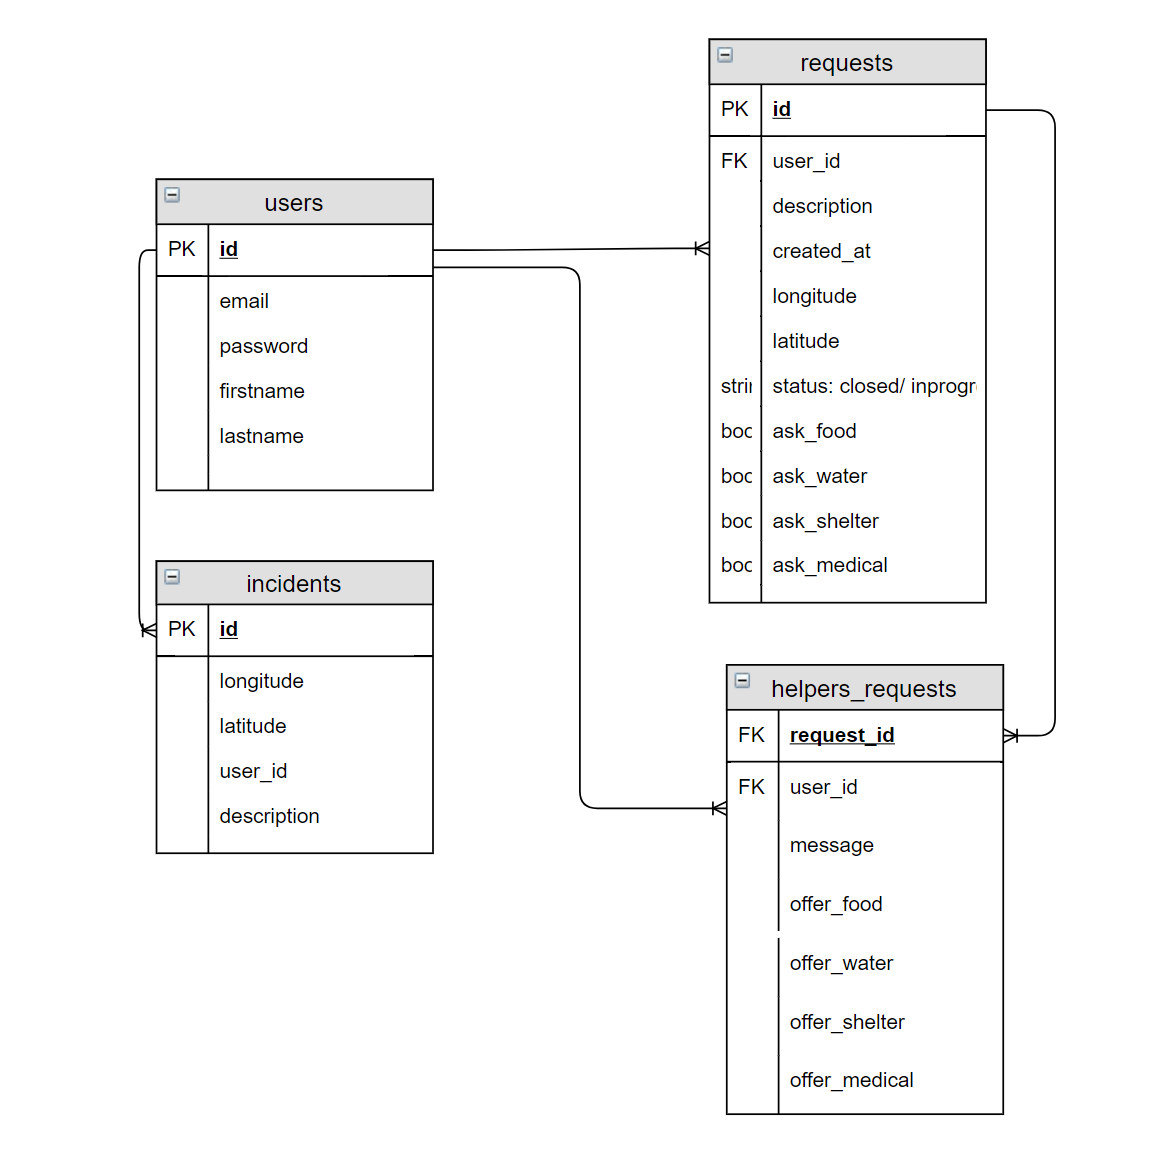
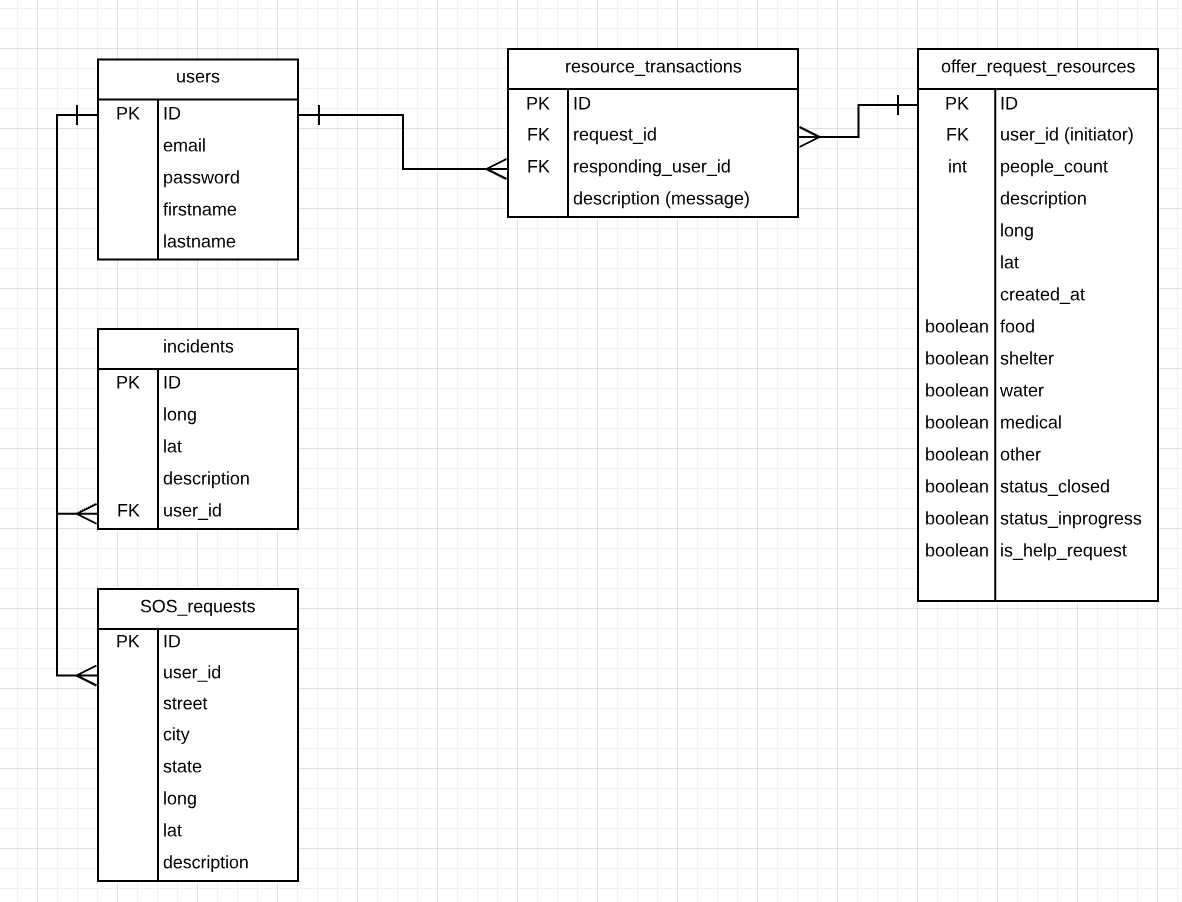
Fixed ERD, entities

diff --git a/src/db/seeds/03_resources.js b/src/db/seeds/03_resources.js
@@ -1,0 +1,81 @@
+const {
+  hashSync
+} = require('bcryptjs')
+
+const table = 'resources'
+
+exports.seed = knex => {
+  return knex(table).insert([{
+    id: 1,
+    people_count: 2,
+    message: "My wife and I would like some water and food",
+    lat: 37.733777,
+    long: -122.447576,
+    food: true,
+    water: true,
+    shelter: false,
+    medical: false,
+    other: false,
+    is_an_offer: false,
+    finished: false,
+    user_id: 1
+  }, {
+    id: 2,
+    people_count: 3,
+    message: "My family is looking for a place to stay. Our house is burned down.",
+    latitude: 33.731426,
+    longitude: -116.099620,
+    food: false,
+    water: false,
+    shelter: true,
+    medical: false,
+    other: false,
+    is_an_offer: false,
+    finished: false,
+    user_id: 2
+  }, {
+    id: 3,
+    people_count: 4,
+    message: "Hi there, I have some food, water and shelter. Let me know if you are intersted.",
+    latitude: 33.738679,
+    longitude: -117.209734,
+    food: true,
+    water: true,
+    shelter: true,
+    medical: false,
+    other: false,
+    is_an_offer: true,
+    finished: false,
+    user_id: 4
+  }, {
+    id: 4,
+    people_count: 5,
+    message: "I can give you some water and food.",
+    latitude: 37.740563,
+    longitude: -122.446198,
+    food: true,
+    water: true,
+    shelter: false,
+    medical: false,
+    other: false,
+    is_an_offer: true,
+    finished: false,
+    user_id: 5
+  }, {
+    id: 5,
+    people_count: 3,
+    message: "I have some first-aid kits that I can give to anyone",
+    latitude: 37.732423,
+    longitude: -122.452726,
+    food: false,
+    water: false,
+    shelter: false,
+    medical: true,
+    other: false,
+    is_an_offer: true,
+    finished: false,
+    user_id: 3
+  }]).then(() => {
+    return knex.raw(`SELECT setval('${table}_id_seq', (SELECT MAX(id) FROM ${table}));`)
+  });;
+};

diff --git a/src/db/migrations/20180904211257_resources.js b/src/db/migrations/20180904211257_resources.js
@@ -1,0 +1,25 @@
+const table = 'resources'
+
+exports.up = knex => {
+  return knex.schema.createTable(table, table => {
+    table.increments()
+    table.integer('people_count').notNullable().defaultsTo(0)
+    table.string('message').notNullable().defaultsTo('')
+    table.float('lat')
+    table.float('long')
+    table.boolean('food').notNullable().defaultsTo(false)
+    table.boolean('water').notNullable().defaultsTo(false)
+    table.boolean('shelter').notNullable().defaultsTo(false)
+    table.boolean('medical').notNullable().defaultsTo(false)
+    table.boolean('other').notNullable().defaultsTo(false)
+    table.boolean('is_an_offer').notNullable().defaultsTo(false)
+    table.boolean('finished').notNullable().defaultsTo(false)
+    table.integer('user_id').notNullable().defaultsTo(0)
+    table.foreign('user_id').references('users.id').onDelete('CASCADE')
+    table.timestamps(true, true)
+  })
+}
+
+exports.down = knex => {
+  return knex.schema.dropTable(table)
+};

diff --git a/src/db/migrations/20181017140558_sos_requests.js b/src/db/migrations/20181017140558_sos_requests.js
@@ -1,0 +1,21 @@
+const table = 'sos_requests'
+
+exports.up = knex => {
+  return knex.schema.createTable(table, table => {
+    table.increments()
+    table.string('street').notNullable().defaultsTo('')
+    table.string('city').notNullable().defaultsTo('')
+    table.string('state').notNullable().defaultsTo('')
+    table.float('lat')
+    table.float('long')
+    table.string('description').notNullable()
+    table.boolean('finished').notNullable().defaultsTo(false)
+    table.integer('user_id').notNullable().defaultsTo(0)
+    table.foreign('user_id').references('users.id').onDelete('CASCADE')
+    table.timestamps(true, true)
+  })
+}
+
+exports.down = knex => {
+  return knex.schema.dropTable(table)
+};

diff --git a/src/db/seeds/01_users.js b/src/db/seeds/01_users.js
@@ -13,8 +13,26 @@ exports.seed = knex => {
   }, {
     id: 2,
     firstname: 'Jacob',
-    lastname: 'Hello',
+    lastname: 'Guintoli',
     email: 'jacob@angel.com',
+    password: hashSync('pass'),
+  }, {
+    id: 3,
+    firstname: 'Kelly',
+    lastname: 'Clarkson',
+    email: 'kelly@gmail.com',
+    password: hashSync('pass'),
+  }, {
+    id: 4,
+    firstname: 'Brian',
+    lastname: 'Adams',
+    email: 'brian@gmail.com',
+    password: hashSync('pass'),
+  }, {
+    id: 5,
+    firstname: 'Nancy',
+    lastname: 'Oxford',
+    email: 'nancy@gmail.com',
     password: hashSync('pass'),
   }]).then(() => {
     return knex.raw(`SELECT setval('${table}_id_seq', (SELECT MAX(id) FROM ${table}));`)

diff --git a/src/db/seeds/04_sos_requests.js b/src/db/seeds/04_sos_requests.js
@@ -1,0 +1,32 @@
+const {
+  hashSync
+} = require('bcryptjs')
+
+const table = 'sos_requests'
+
+
+exports.seed = knex => {
+  return knex(table).insert([{
+    id: 1,
+    message: "I can offer help",
+    status: "inprogress",
+    offer_food: true,
+    offer_water: false,
+    offer_shelter: false,
+    offer_medical: false,
+    request_id: 1,
+    user_id: 1
+  }, {
+    id: 2,
+    message: "I am coming to help out.",
+    status: "inprogress",
+    offer_food: false,
+    offer_water: false,
+    offer_shelter: true,
+    offer_medical: false,
+    request_id: 2,
+    user_id: 2
+  }]).then(() => {
+    return knex.raw(`SELECT setval('${table}_id_seq', (SELECT MAX(id) FROM ${table}));`)
+  });;
+};

diff --git a/src/db/migrations/20181017140812_resource_transactions.js b/src/db/migrations/20181017140812_resource_transactions.js
@@ -1,0 +1,17 @@
+const table = 'resource_transactions'
+
+exports.up = knex => {
+  return knex.schema.createTable(table, table => {
+    table.increments()
+    table.integer('resource_id').notNullable().defaultsTo(0)
+    table.foreign('resource_id').references('resources.id').onDelete('CASCADE')
+    table.string('reply').notNullable().defaultsTo('')
+    table.integer('responding_user_id').notNullable().defaultsTo(0)
+    table.foreign('responding_user_id').references('users.id').onDelete('CASCADE')
+    table.timestamps(true, true)
+  })
+}
+
+exports.down = knex => {
+  return knex.schema.dropTable(table)
+};

diff --git a/src/db/seeds/05_resource_transactions.js b/src/db/seeds/05_resource_transactions.js
@@ -2,20 +2,15 @@ const {
   hashSync
 } = require('bcryptjs')
 
-const table = 'helpers_requests'
-
+const table = 'resource_transactions'
 
 exports.seed = knex => {
   return knex(table).insert([{
     id: 1,
-    message: "I can offer help",
-    status: "inprogress",
-    offer_food: true,
-    offer_water: false,
-    offer_shelter: false,
-    offer_medical: false,
-    request_id: 1,
-    user_id: 1
+    reply: "I can offer help",
+    resource_id: "inprogress",
+
+    responding_user_id: 1
   }, {
     id: 2,
     message: "I am coming to help out.",

diff --git a/knexfile.js b/knexfile.js
@@ -5,8 +5,7 @@ const {
     NODE_ENV
 } = process.env
 
-
-console.log("I am DATABASE_URL",DATABASE_URL)
+console.log("I am DATABASE_URL", DATABASE_URL)
 const path = require('path')
 const config = {
     client: 'pg',
@@ -24,7 +23,8 @@ const config = {
 module.exports = {
     development: config,
     production: config,
-    testing: { ...config,
+    testing: {
+        ...config,
         connection: DATABASE_URL.replace('_dev', '_test')
     }
 }

diff --git a/readme.md b/readme.md
@@ -39,7 +39,7 @@ To install & run locally for development:
 
 ## Database Structure
 
-![](./images/ERD.PNG)
+![](./images/ERD.png)
 
 ## Routes
 
